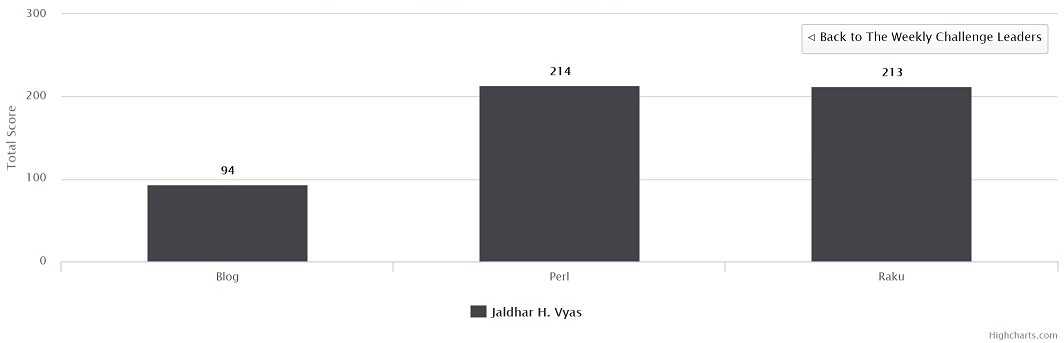
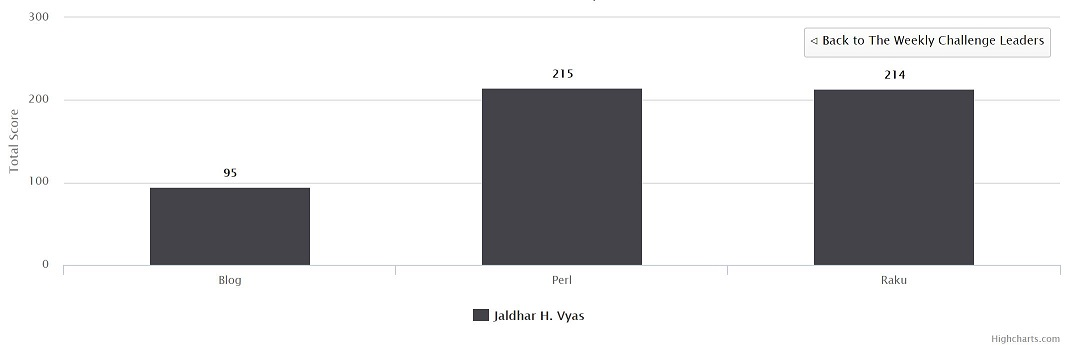
- Tidied up Challenge 122.

diff --git a/docs/blog/perl-weekly-challenge-122/index.html b/docs/blog/perl-weekly-challenge-122/index.html
@@ -224,7 +224,7 @@
 <h4 id="laurent-rosenfeld-score-1252">Laurent Rosenfeld [Score: 1252]</h4>
 <hr>
 <p><img src="/images/blog/laurent-stats.jpg" alt="Laurent Rosenfeld"></p>
-<h4 id="jaldhar-h-vyas-score-1042">Jaldhar H. Vyas [Score: 1042]</h4>
+<h4 id="jaldhar-h-vyas-score-1048">Jaldhar H. Vyas [Score: 1048]</h4>
 <hr>
 <p><img src="/images/blog/jaldhar-stats.jpg" alt="Jaldhar H. Vyas"></p>
 <p>Last couple of weeks, I noticed <strong>Stuart Little</strong> has been busy sharing solutions to past weeks tasks in the language <strong>Lua</strong>. This has pushed him to <strong>rank #2</strong> in the <strong>Guest Leaders</strong> board. Top two guest contributors are <strong>Abigail</strong> and <a href="https://theweeklychallenge.org/blog/meet-the-champion-2021-01"><strong>Stuart Little</strong></a>.</p>
@@ -241,8 +241,8 @@
 <p>I will pick one from all the received lots. I would like to see how creative you can be with regard to the logo. Just a gentle reminder, we are now known as <strong>The Weekly Challenge - Perl &amp; Raku</strong>. You don&rsquo;t need to put the literal text in the logo.</p>
 <p>Let us share some interesting stats from the <a href="https://github.com/manwar/perlweeklychallenge-club"><strong>GitHub repository</strong></a>.</p>
 <br>
-<h4 id="1-commits-18576-199">1. Commits: 18,576 (+199)</h4>
-<h4 id="2-pull-requests-4550-62">2. Pull Requests: 4,550 (+62)</h4>
+<h4 id="1-commits-18583-206">1. Commits: 18,583 (+206)</h4>
+<h4 id="2-pull-requests-4551-63">2. Pull Requests: 4,551 (+63)</h4>
 <h4 id="3-contributors-171-2">3. Contributors: 171 (+2)</h4>
 <h4 id="4-fork-216-2">4. Fork: 216 (+2)</h4>
 <h4 id="5-stars-97">5. Stars: 97</h4>

diff --git a/content/blog/perl-weekly-challenge-122.md b/content/blog/perl-weekly-challenge-122.md
@@ -45,7 +45,7 @@ Top two members of **Team PWC** who scored `1000+` scores are [**Laurent Rosenfe
 ![Laurent Rosenfeld](/images/blog/laurent-stats.jpg)
 
 
-#### Jaldhar H. Vyas [Score: 1042]
+#### Jaldhar H. Vyas [Score: 1048]
 ***
 
 ![Jaldhar H. Vyas](/images/blog/jaldhar-stats.jpg)
@@ -77,8 +77,8 @@ Let us share some interesting stats from the [**GitHub repository**](https://git
 
 <br>
 
-#### 1. Commits: 18,576 (+199)
-#### 2. Pull Requests: 4,550 (+62)
+#### 1. Commits: 18,583 (+206)
+#### 2. Pull Requests: 4,551 (+63)
 #### 3. Contributors: 171 (+2)
 #### 4. Fork: 216 (+2)
 #### 5. Stars: 97
